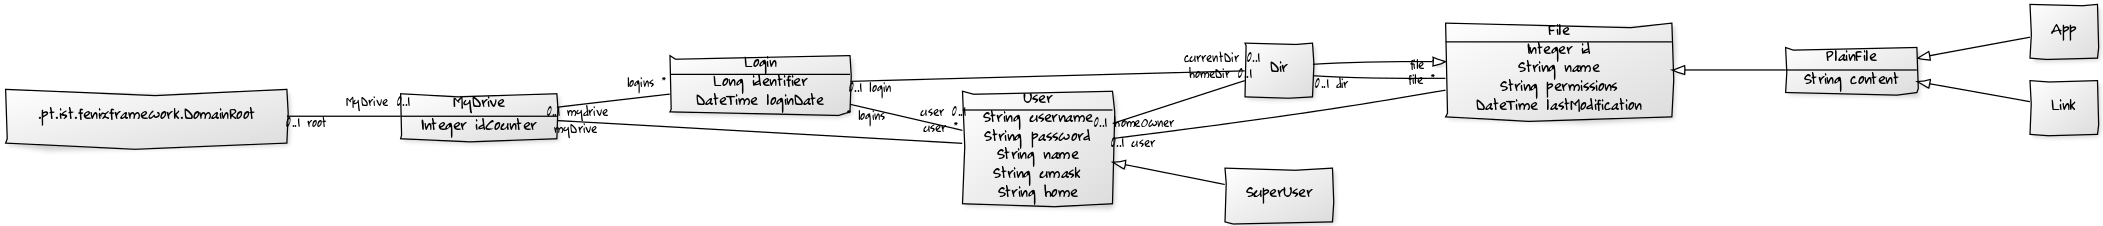
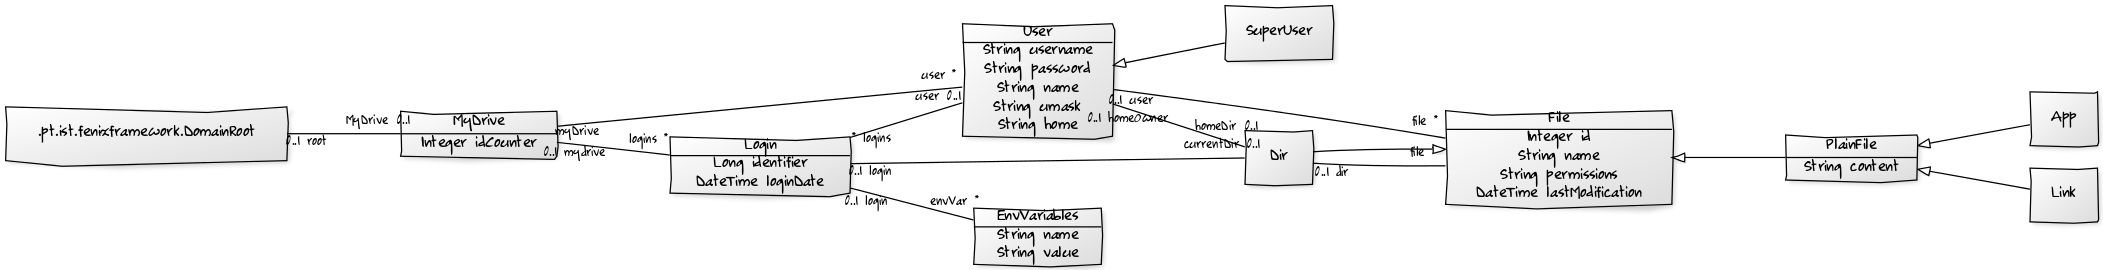
Added DML Environment Variables association to Login class

diff --git a/src/main/java/pt/tecnico/myDrive/domain/EnvVariables.java b/src/main/java/pt/tecnico/myDrive/domain/EnvVariables.java
@@ -1,0 +1,9 @@
+package pt.tecnico.myDrive.domain;
+
+public class EnvVariables extends EnvVariables_Base {
+    
+    public EnvVariables() {
+        super();
+    }
+    
+}
